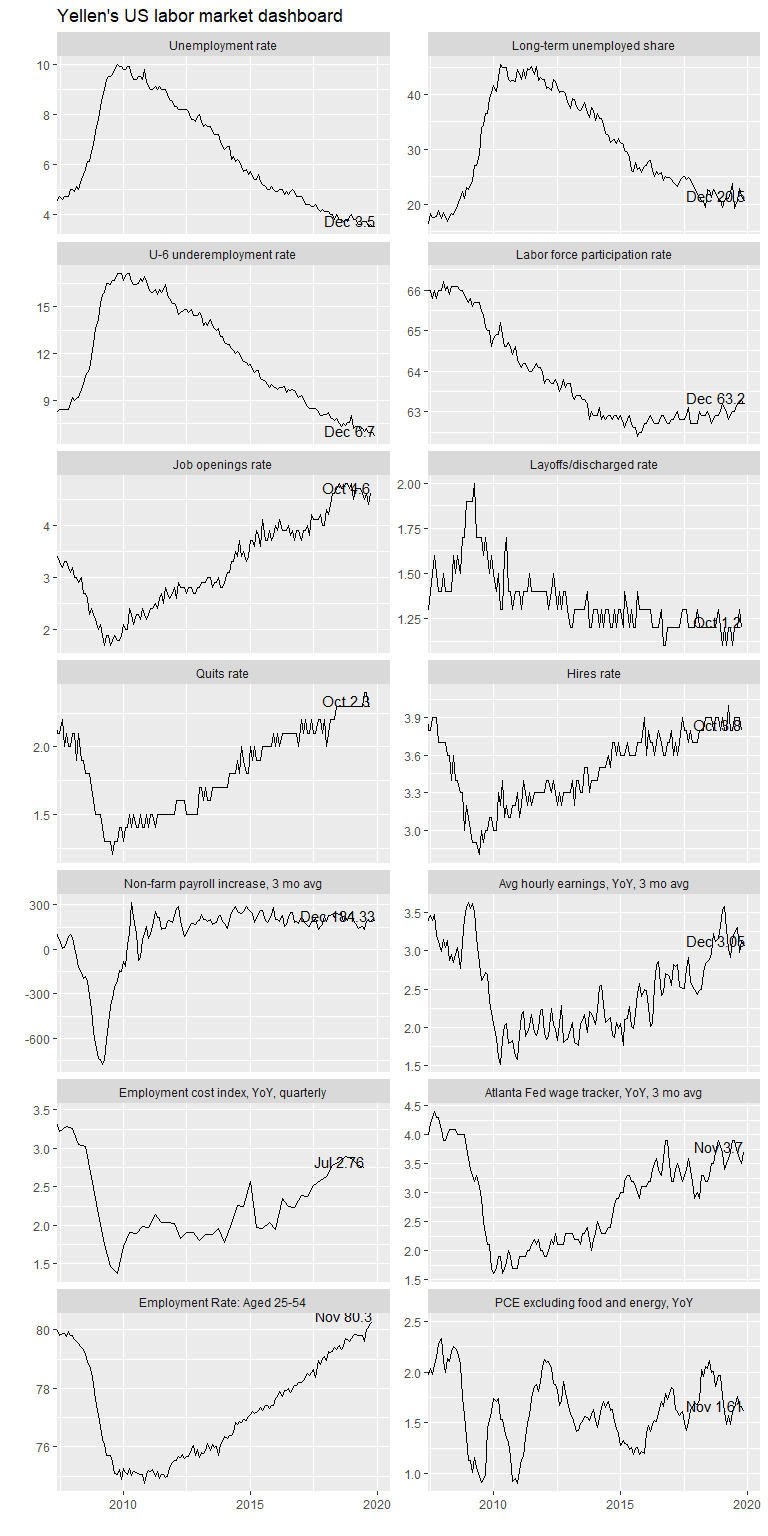
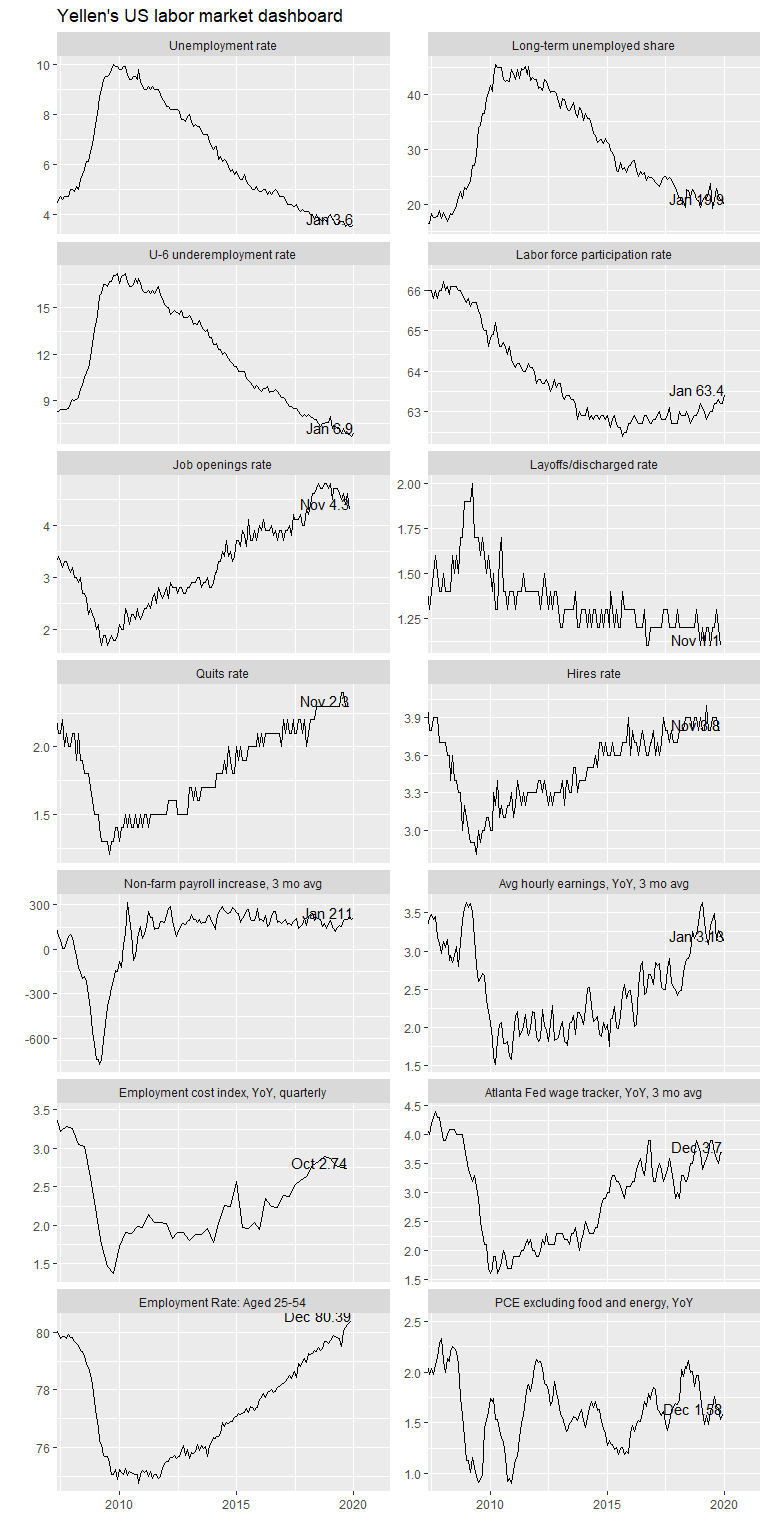
update January 2020 employment

diff --git a/README.md b/README.md
@@ -14,7 +14,7 @@ Mitsuo Shiota
   - [Prepare for the plot](#prepare-for-the-plot)
   - [Dashboard](#dashboard)
 
-Updated: 2020-01-14
+Updated: 2020-02-10
 
 ## Summary
 
@@ -94,7 +94,7 @@ limits, to plot later.
 ``` r
 START = "2006-01-01"
 
-XLIM <- c(as.Date("2008-01-01"), as.Date("2019-12-01"))
+XLIM <- c(as.Date("2008-01-01"), as.Date("2020-12-01"))
 ```
 
 Now I can use tq\_get function from tidyquant package to download data
